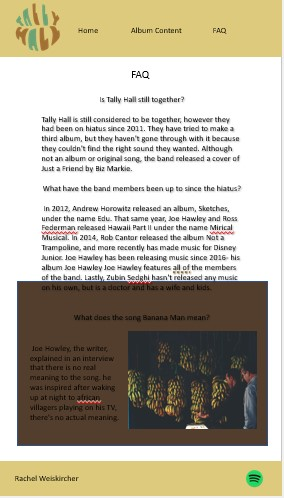
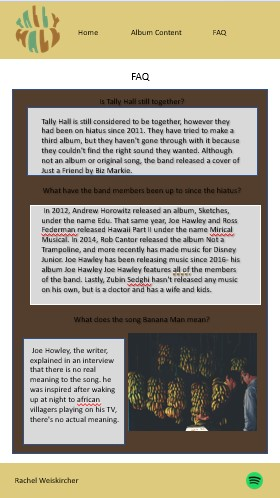
faq css

diff --git a/tallyhall/faq.html b/tallyhall/faq.html
@@ -8,7 +8,7 @@
     <meta charset="UTF-8">
     <meta http-equiv="X-UA-Compatible" content="IE=edge">
     <meta name="viewport" content="width=device-width, initial-scale=1.0">
-    <title>faq</title>
+    <title>FAQ</title>
     <link rel="stylesheet" href="styles/styles.css">
 </head>
 <body>
@@ -27,18 +27,22 @@
 </div>
 
 
-
+<section class="page">
 <div class="faq">
 <h4 class="question">Is Tally Hall still together?</h4>
-<p>Tally Hall is still considered to be together, howerver they had been on hiatus since 2011. They have tried to make a third album, but they haven't gone through with it because they couldn't find the right sound they wanted. Although not an album or original song, the band released a cover of Just a Friend by Biz Markie.</p>
+<p class="answer">Tally Hall is still considered to be together, however they had been on hiatus since 2011. They have tried to make a third album, but they haven't gone through with it because they couldn't find the right sound they wanted. Although not an album or original song, the band released a cover of Just a Friend by Biz Markie.</p>
 <h4 class="question">What have the band members been up to since the hiatus?</h4>
-<p> In 2012, Andrew Horowitz released an album, Sketches, under the name Edu. That same year, Joe Hawley and Ross Federman released Hawaii Part II under the name Mirical Musical. In 2014, Rob Cantor released the album Not a Trampoline, and more recently has made music for Disney Junior. Joe Hawley has been releasing music since 2016- his album Joe Hawley Joe Hawley features all of the members of the band. Lastly, Zubin Sedghi hasn't released any music on his own, but is a doctor and has a wife and kids.</p>
+<p class="answer"> In 2012, Andrew Horowitz released an album, Sketches, under the name Edu. That same year, Joe Hawley and Ross Federman released Hawaii Part II under the name Mirical Musical. In 2014, Rob Cantor released the album Not a Trampoline, and more recently has made music for Disney Junior. Joe Hawley has been releasing music since 2016- his album Joe Hawley Joe Hawley features all of the members of the band. Lastly, Zubin Sedghi hasn't released any music on his own, but is a doctor and has a wife and kids.</p>
 <h4 class="question">What does the song 'Banana Man' mean?</h4>
-<p>Joe Howley, the writer, explained in an interview that there is no real meaning to the song. he was inspired after waking up at night to african villagers playing on his TV, there's no actual meaning.</p>
+<div class="ban">
+<p class="answer banny">Joe Hawley, the writer, explained in an interview that there is no real meaning to the song. He was inspired after waking up at night to african villagers playing on his TV and said that there's no actual meaning.</p>
+<img class="banana" src="images/banana.jpg" alt="bananas">
+</div>
 </div>
 
-<img src="images/banana.jpg" alt="bananas">
-<img src="images/brown.jpg" alt="brown">
+</section>
+
+
 
 
 <script>

diff --git a/tallyhall/styles/styles.css b/tallyhall/styles/styles.css
@@ -37,7 +37,7 @@ header {
 .logo {
     text-align: right;
     width: 80px;
-    margin-left: 50 px;
+    margin-left: 50px;
 
 
 }
@@ -198,7 +198,7 @@ ol {
     width: 75%;
     padding: 35px;
     grid-column: 3/4;
-
+    background-color: #533E2D;
     margin: 0 auto;
     border: 5em;
 }
@@ -218,6 +218,35 @@ ol {
  
     z-index: 1;
 } */
+
+.answer {
+    box-shadow: 5px 5px 10px #2c2721; 
+    background-color: #DCE2C8;
+    padding: 20px;
+}
+
+.question {
+    font-family: "Zilla Slab", "Spectral";
+    color: #DCE2C8;
+}
+
+.ban {
+    display: grid;
+    grid-template-columns: 1fr 1fr;
+    grid-template-rows: 1fr 1fr 1fr;
+
+}
+
+.banny {
+    margin-right: 50px;
+    grid-row: 1/2;
+}
+
+.banana {
+width: 90%;
+grid-row: 1/5;
+box-shadow: 5px 5px 1px #2c2721;
+}
 
 .history {
     background-color: #DCE2C8;
@@ -293,4 +322,15 @@ ol {
     ol{
         columns: 1;
     }
+    .banny {
+        line-height: 1.5em;
+       width: 90%;
+        padding: 35px;
+        grid-column: 3/4;
+        border: 5em;
+        box-shadow: 5px 5px 10px #2c2721; 
+        background-color: #DCE2C8;
+        padding: 20px;
+    }
+
   }
